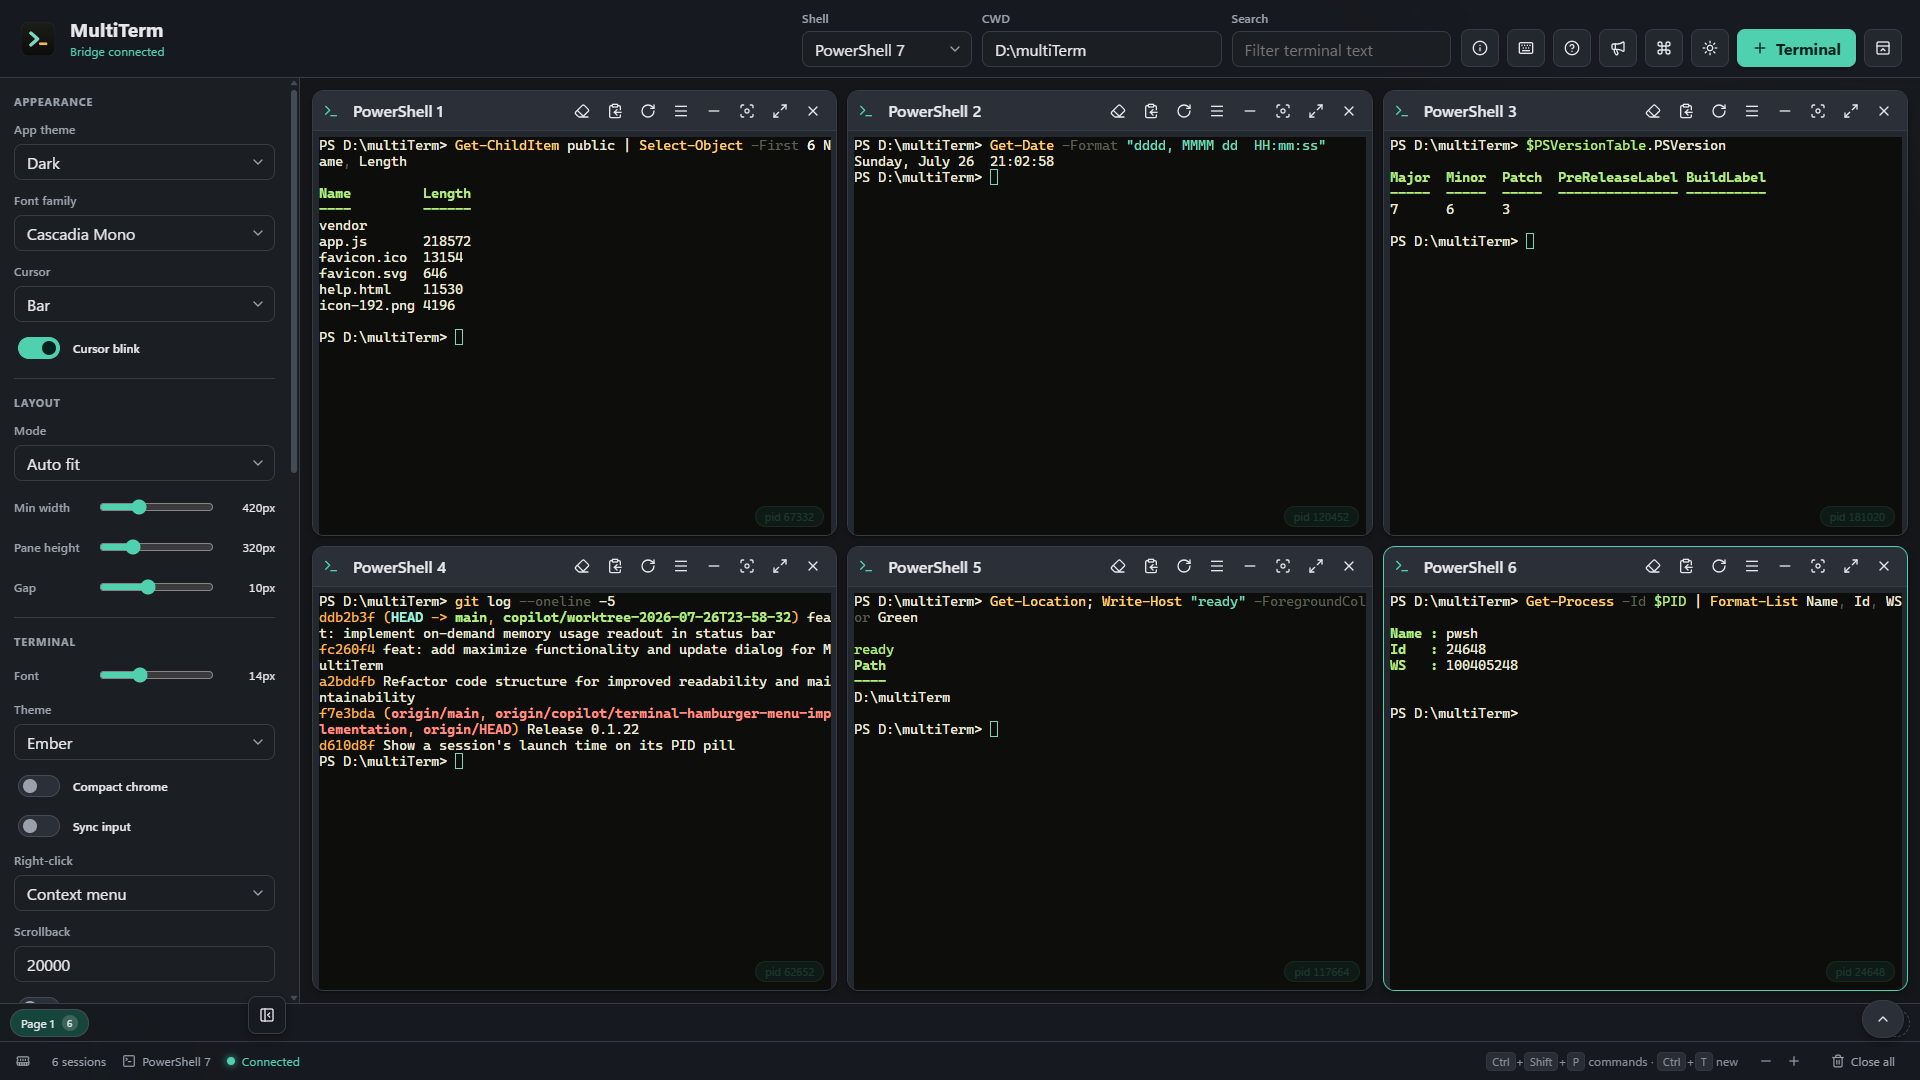
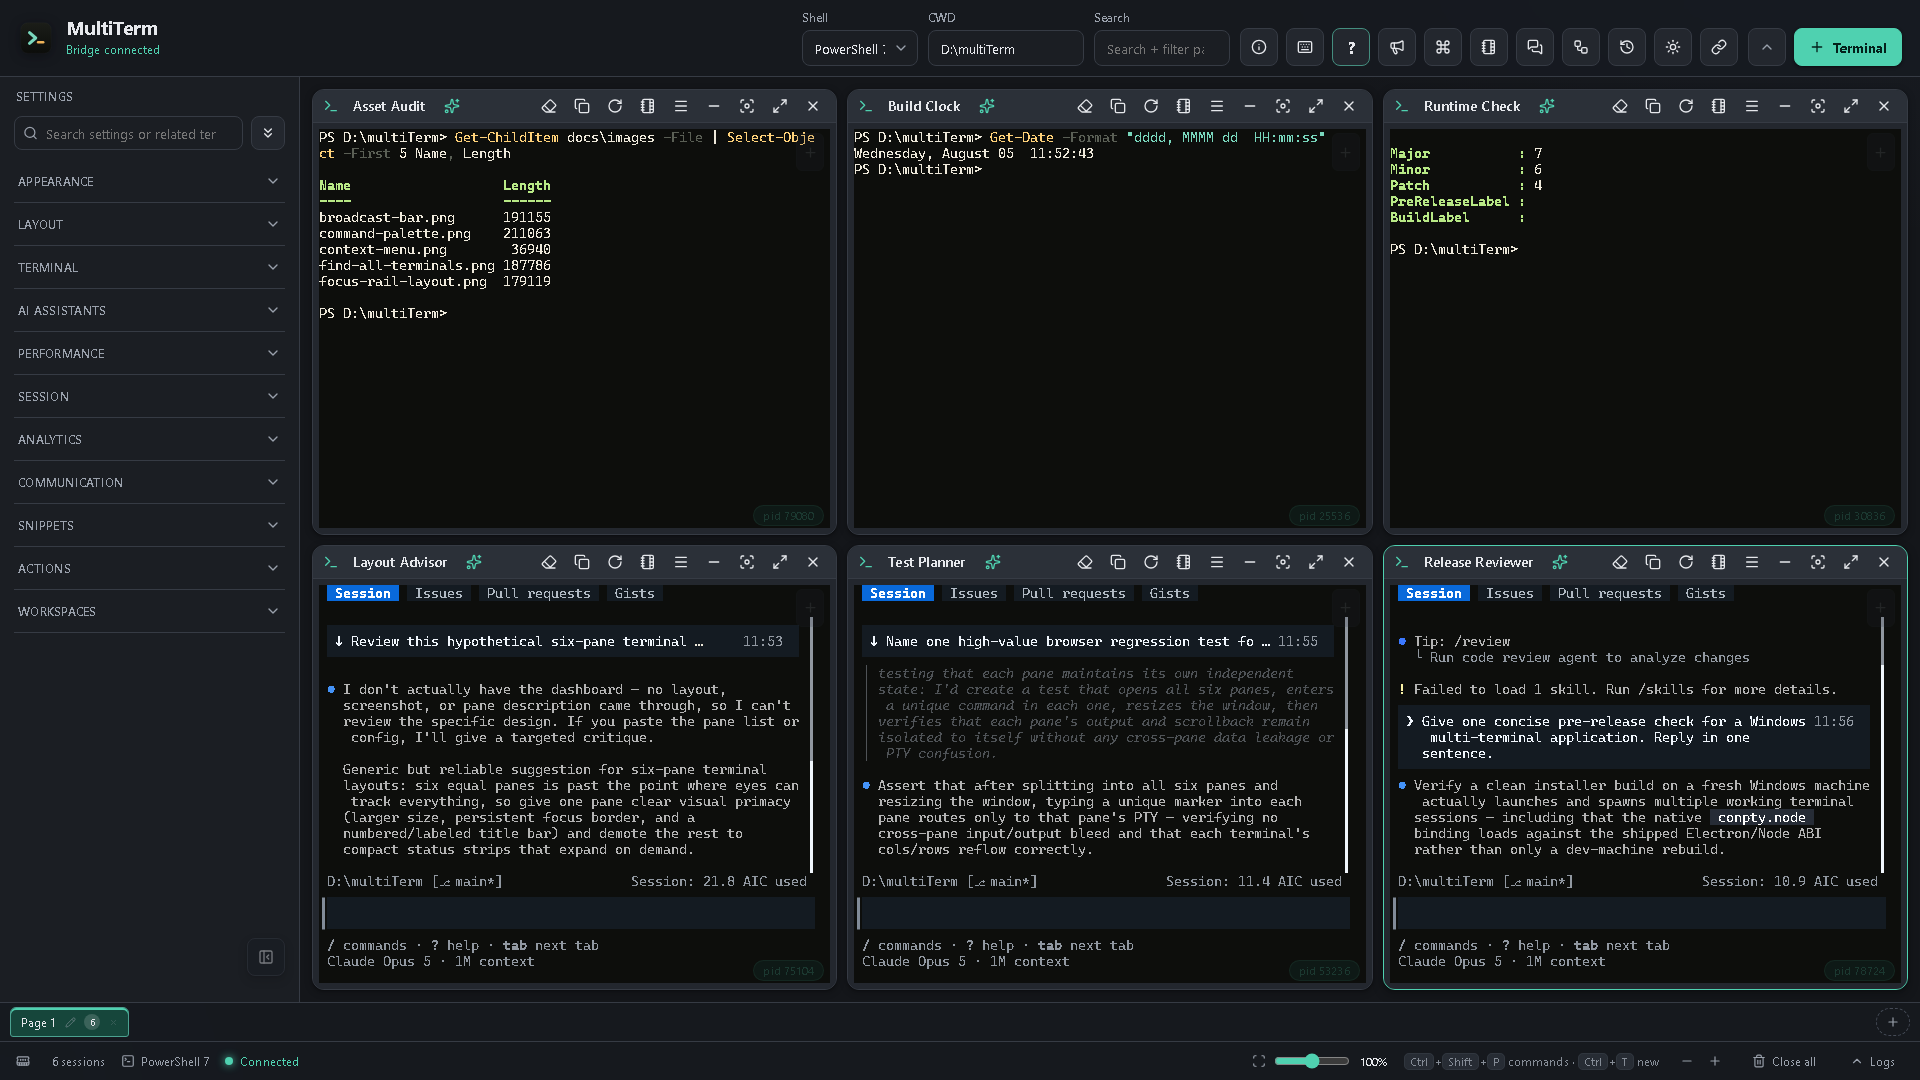
docs(readme): refresh screenshots, feature highlights, and shortcut references

diff --git a/README.md b/README.md
@@ -10,7 +10,7 @@ layouts from auto-fit grids to a free-form canvas.
 **⬇ [Download the latest MultiTerm Workbench installer](https://github.com/andrewtheart/multiterm-workbench/releases/latest)** — or browse all [releases](https://github.com/andrewtheart/multiterm-workbench/releases).
 
 <p align="center">
-  <img src="docs/images/workbench-grid.png" alt="MultiTerm Workbench showing six live PowerShell terminals in an auto-fit grid" width="1200">
+  <img src="docs/images/workbench-grid.png" alt="MultiTerm Workbench showing three titled PowerShell tasks and three titled Copilot sessions in a six-pane auto-fit grid" width="1200">
 </p>
 
 ## Why MultiTerm?
@@ -100,6 +100,20 @@ layouts from auto-fit grids to a free-form canvas.
       Highlight terminals waiting for input and optionally notify when background panes become active, fall silent, or ring the terminal bell, so long-running work does not need constant watching.
     </td>
   </tr>
+  <tr>
+    <td align="center" width="33%">
+      <h3>↔ Terminal messaging and routes</h3>
+      Hand commands, summaries, paths, tasks, and results to another live terminal through a bridge-owned inbox. Receivers explicitly insert or dismiss each item, while persistent directional links and workspace connectors keep recurring workflows visible.
+    </td>
+    <td align="center" width="33%">
+      <h3>⏱ Automation Studio</h3>
+      Build interval, daily, or weekday schedules with ordered actions that run or stage only after the target shell, Copilot, or Claude prompt is confirmed ready. Review history, pause globally, and route completed assistant handoffs to connected terminals.
+    </td>
+    <td align="center" width="33%">
+      <h3>🧩 Explorer and editor integrations</h3>
+      Opt into Windows 11 File Explorer, Visual Studio Code, or Visual Studio 2022/2026 integrations during setup. Open selected folders, files, projects, and solutions directly in a live MultiTerm instance, with clean upgrade and uninstall ownership.
+    </td>
+  </tr>
 </table>
 
 ### Attaching an existing terminal
@@ -147,8 +161,8 @@ file-selection prompts on an interactive Windows desktop.
 <table>
   <tr>
     <td align="center" width="50%">
-      <img src="docs/images/workbench-grid.png" alt="MultiTerm in auto-fit grid mode with six active terminals">
-      <br><strong>Grid workbench:</strong> multiple live shells and controls in one view.
+      <img src="docs/images/workbench-grid.png" alt="MultiTerm in auto-fit grid mode with three titled shell tasks and three completed Copilot prompts">
+      <br><strong>Grid workbench:</strong> titled shell tasks and completed Copilot sessions in one six-pane view.
     </td>
     <td align="center" width="50%">
       <img src="docs/images/maximized-pane.png" alt="A single terminal maximized to fill the workspace">
@@ -197,8 +211,8 @@ file-selection prompts on an interactive Windows desktop.
   </tr>
   <tr>
     <td align="center" width="50%">
-      <img src="docs/images/context-menu.png" alt="Right-click context menu showing copy, find, maximize, Copilot CLI, scripts, Git status, and more">
-      <br><strong>Deep context menu:</strong> terminal actions, scripts, statistics, logging, and process-aware tools in one place.
+      <img src="docs/images/context-menu.png" alt="Searchable two-column glass context menu grouping clipboard, find, automation, snippet, and session actions">
+      <br><strong>Deep context menu:</strong> searchable, customizable action groups on a translucent terminal-aware surface.
     </td>
     <td align="center" width="50%">
       <img src="docs/images/notes-command-queue.png" alt="Terminal notes and command queue dialog showing PID-bound notes and three staged commands">
@@ -790,7 +804,7 @@ point the checker at a fork.
 - Sessions default to PowerShell 7 (`pwsh.exe`) and can also use Windows PowerShell, Command Prompt, or WSL. Existing WSL tmux sessions can be discovered and attached from the header or command palette.
 - Ctrl+C, Tab completion, PSReadLine editing, and terminal resize are forwarded through the pseudo-terminal rather than plain pipes.
 - Pages keep related terminals in separate visual groups while their shell processes stay alive. Compact page tabs expose a persistent right-edge **x** and reorder by dragging along the active axis; dragging a terminal title bar onto a page tab moves that terminal there. `Ctrl+P` creates a page. Right-click a page for **Close page** or **Close all**; populated-page closes use the remembered move-or-close policy from Session settings. Right-click blank pager space for **Open new page** as quick key **1** and the placement actions. **Pages location** under **Layout** and those context actions move the tabs to the top, bottom, left, or right; both paths update one persisted setting and stay synchronized. Side panels are collapsible. Saved workspaces preserve pages, terminals, directories, shell choices, titles, and layout settings.
-- The top-right **?** opens generated in-app help. The keyboard icon or `Ctrl+/` opens a categorized catalog of terminal-menu, page-menu, app-wide, and customized shortcuts; `Ctrl+Shift+P` or F1 opens the searchable command palette.
+- The top-right **?** or `F1` opens generated in-app help. The keyboard icon or `Ctrl+/` opens a categorized catalog of terminal-menu, page-menu, app-wide, and customized shortcuts; `Ctrl+Shift+P` opens the searchable command palette.
 - The top search box runs the same buffer search as `Ctrl+Shift+F` — every match is highlighted in place and a counter shows the running total — and additionally hides panes with nothing to show. Panes reappear (already highlighted) the moment your evolving query matches them again, or when matching output arrives. Enter/Shift+Enter walk the matches, Escape clears the filter. A pane also survives the filter when its title, working directory, shell, or status matches. `Ctrl+Shift+E` focuses the box.
 - Layout modes include auto fit, fixed rows/columns, strips, carousels, balanced/priority/compact grids, four master edges, spotlight, bento, focus rail, and manual canvas.
 - Settings groups start collapsed to keep the side panel compact. Its sticky search uses a cached related-term index as well as visible labels, so searches such as **tabs**, **macros**, or **projects** find Pages, Snippets, or Workspaces without rescanning every control on each keystroke. It temporarily expands matching groups; clearing restores the previous group state. **Show all** clears the filter and expands every group, then changes to **Collapse all**.
